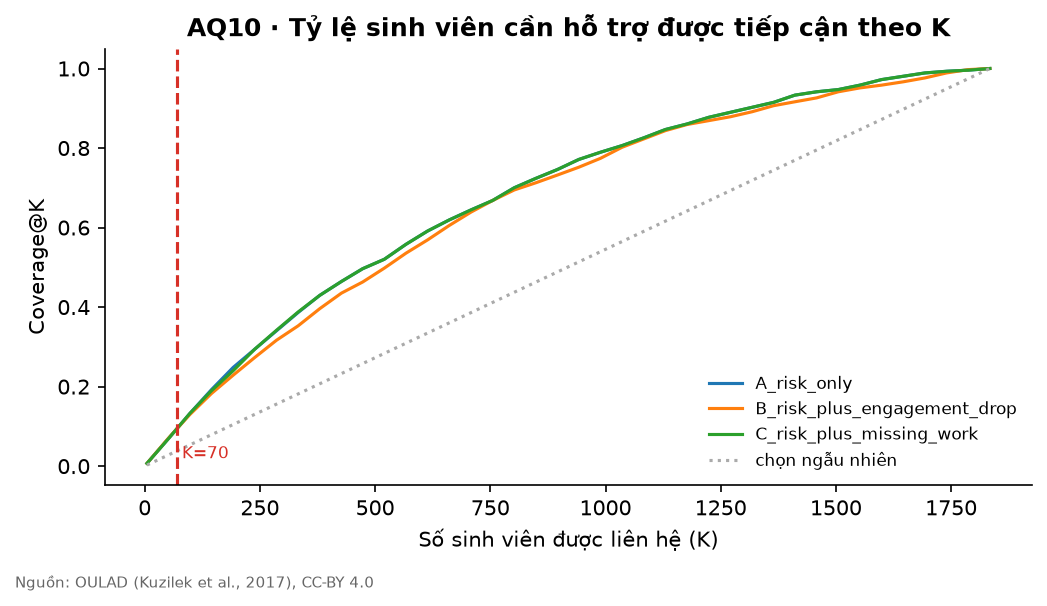
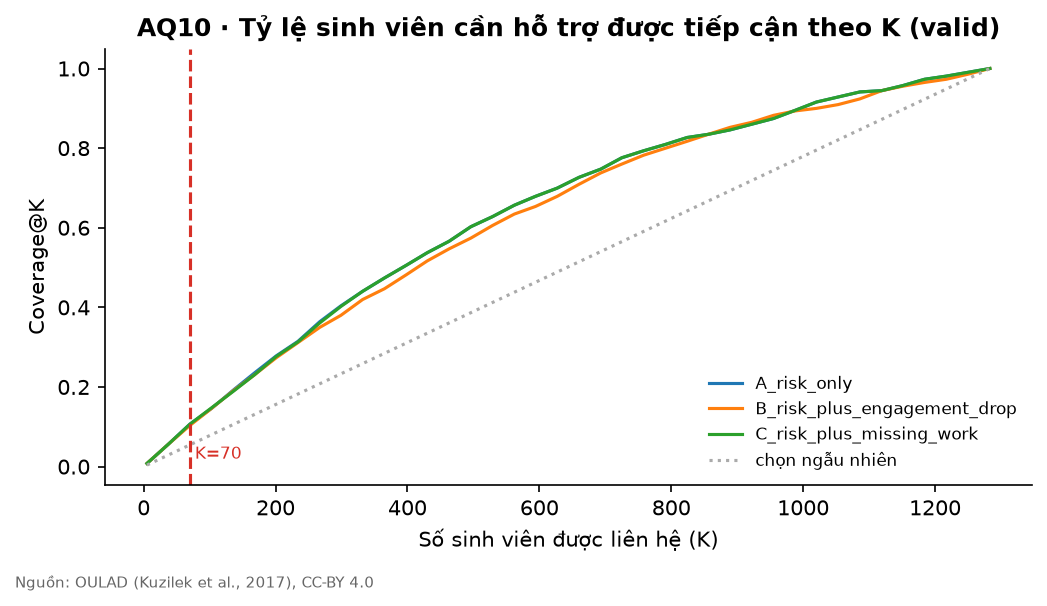
chore(reports): regenerate prioritization outputs

diff --git a/reports/prioritization_report.md b/reports/prioritization_report.md
@@ -1,8 +1,20 @@
 # Ưu tiên hỗ trợ – AQ10, AQ11, AQ12 (tự sinh)
 
-Tập test, n = 1834 sinh viên còn theo học tại ngày 41; số cần hỗ trợ thực tế = 717. Năng lực K = 35 × 2 cố vấn = **70 ca/tuần** (ASSUMPTION).
+Chọn trên **valid** ['2014B'] (n = 1283, cần hỗ trợ = 629). Test ['2014J'] (n = 1834, cần hỗ trợ = 717) chỉ để báo cáo và mô phỏng Risk List của học kỳ hiện tại. Sinh viên còn theo học tại ngày 41. Năng lực K = 35 × 2 cố vấn = **70 ca/tuần** (ASSUMPTION).
 
 ## AQ10 – So sánh phương án ưu tiên
+
+Valid (dùng để chọn):
+
+| strategy                    |   K |   coverage_at_K |   precision_at_K |
+|:----------------------------|----:|----------------:|-----------------:|
+| A_risk_only                 |  70 |           0.107 |            0.957 |
+| B_risk_plus_engagement_drop |  70 |           0.103 |            0.929 |
+| C_risk_plus_missing_work    |  70 |           0.107 |            0.957 |
+
+Phương án chọn trên valid (Coverage@K cao nhất; hoà thì Precision@K, rồi phương án đơn giản hơn): **A_risk_only**.
+
+Test (chỉ báo cáo, không dùng để chọn):
 
 | strategy                    |   K |   coverage_at_K |   precision_at_K |
 |:----------------------------|----:|----------------:|-----------------:|
@@ -10,11 +22,19 @@ Tập test, n = 1834 sinh viên còn theo học tại ngày 41; số cần hỗ 
 | B_risk_plus_engagement_drop |  70 |           0.093 |            0.957 |
 | C_risk_plus_missing_work    |  70 |           0.093 |            0.957 |
 
-Phương án có Coverage@K cao nhất: **A_risk_only**.
-
 ![](figures/aq10_coverage_at_k.png)
 
 ## AQ12 – Kịch bản ngưỡng cảnh báo
+
+Valid (nhóm chọn ngưỡng từ bảng này):
+
+|   alert_share |   n_alerted |   recall |   precision |   false_alarms |   weeks_of_advisor_capacity | fits_capacity   |
+|--------------:|------------:|---------:|------------:|---------------:|----------------------------:|:----------------|
+|           0.1 |         128 |    0.183 |       0.898 |             13 |                        1.83 | False           |
+|           0.2 |         257 |    0.35  |       0.856 |             37 |                        3.67 | False           |
+|           0.3 |         385 |    0.499 |       0.816 |             71 |                        5.5  | False           |
+
+Test (chỉ báo cáo):
 
 |   alert_share |   n_alerted |   recall |   precision |   false_alarms |   weeks_of_advisor_capacity | fits_capacity   |
 |--------------:|------------:|---------:|------------:|---------------:|----------------------------:|:----------------|

diff --git a/reports/eda_findings.md b/reports/eda_findings.md
@@ -1,7 +1,7 @@
 # EDA Findings – Observation · Insight · Evidence · Limitation
 
 > Observation do code tự sinh từ dữ liệu train+valid (tập test được giữ kín).
-> **Insight phải do nhóm viết**: nối observation với một quyết định của stakeholder.
+> **Insight phải do nhóm viết** trong `docs/eda_insights.md` (heading `## <tên file hình>`): nối observation với một quyết định của stakeholder.
 > Không dùng từ 'gây ra', 'tác động', 'sinh viên yếu'.
 
 Số biểu đồ: **11**

diff --git a/reports/data_quality_report.md b/reports/data_quality_report.md
@@ -1,7 +1,7 @@
 # Data Quality Report (tự sinh)
 
 > Sinh bởi `python -m eduearlyalert.pipeline audit`. Không sửa tay – sửa code rồi chạy lại.
-> Phần **Nhận định & xử lý** ở cuối do nhóm viết.
+> Phần **Nhận định & xử lý** ở cuối do nhóm viết trong `docs/data_quality_notes.md`.
 
 ## 1. Kích thước bảng và khoá trùng
 
